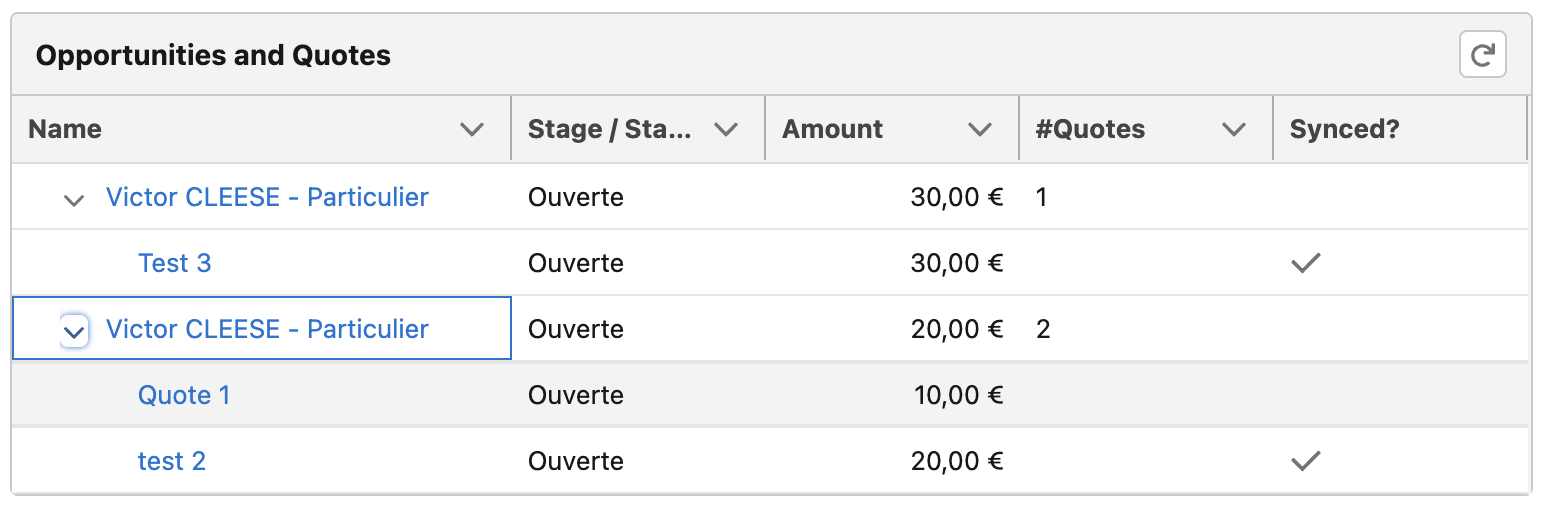
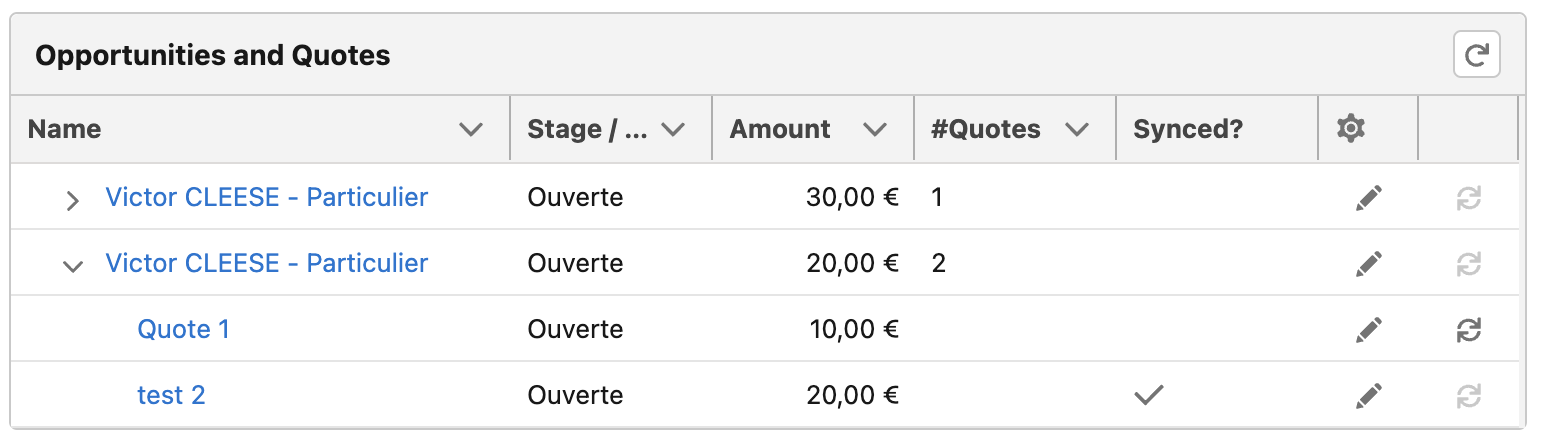
doc update

diff --git a/help/sfpegListCmp.md b/help/sfpegListCmp.md
@@ -457,15 +457,19 @@ action with rework feature activated).<br/>
 ### Simple SOQL Based DataTree Display Configuration
 
 In that example,the **sfpegListCmp** component is configured in _TreeGrid_ mode to 
-display the set of Opportunities and Quotes related to an Account.
+display the set of Opportunities and Quotes related to an Account. From this component,
+the user may directly open a record by clicking on its name, edit it (via the standard
+edit layout in a popup) via the edit button icon or even directly change the quote
+synced with the opportunity via the sync button icon (available depending on the 
+quote synch status).
 
 ![SOQL DataTree](/media/sfpegListDataTreeSOQL.png)
 
 The configuration of this component relies on a simple SOQL query with embedded
 subqueries (`Query Template`property);
 ```
-SELECT Name, Amount__c, StageStatus__c,
-(select Name, Amount__c, StageStatus__c, IsSyncing from Quotes)
+SELECT Name, Amount__c, StageStatus__c, inactiveSync__c,
+(select Name, Amount__c, StageStatus__c, IsSyncing, inactiveSync__c, OpportunityId from Quotes)
 FROM Opportunity
 WHERE AccountId = '{{{ID}}}'
 ```
@@ -477,7 +481,12 @@ The ID of the current Account is fetched by setting the `Query Input` property t
 As Quotes and Opportunities have different names for Amounts and Stage/Status, the 
 strategy is to define formula fields with exactly the same API name on both objets:
 * `StageStatus__c` respectively mapped to the Opportunity `StageName` and Quote `Status` 
-* `Amount__c` respectively mapped to the Opportunity `Amount` and Quote `TotalPrice` 
+* `Amount__c` respectively mapped to the Opportunity `Amount` and Quote `TotalPrice`
+
+In order to deactivate the synch button for all Opportunity records, another `DisableSync__c`
+formula field is defined  
+* always _true_ for Opportunity
+* equal to `IsSynced` for Quote
 
 The `Display Configuration` may then be set as follows:
 ```
@@ -493,18 +502,36 @@ The `Display Configuration` may then be set as follows:
         { "label": "Stage / Status", "fieldName": "StageStatus__c", "sortable": true},
         { "label": "Amount", "fieldName": "Amount__c", "type":"currency", "sortable": true},
         { "label": "#Quotes", "fieldName": "Quotes._length", "sortable": true},
-        { "label": "Synced?", "fieldName": "IsSyncing", "type":"boolean"}
+        { "label": "Synced?", "fieldName": "IsSyncing", "type":"boolean"},
+        { "iconName":"utility:settings","type": "button-icon", "initialWidth": 10,
+            "typeAttributes": {"title": "Edit record","name": "edit","iconName": "utility:edit","variant": "bare" }},
+        { "type": "button-icon", "initialWidth": 10,
+            "typeAttributes": {"title": "Synchronize Quote","name": "synchQuote","iconName": "utility:sync","variant": "bare","disabled": { "fieldName": "DisableSync__c" } }}
     ]
 }
+```
+
+The `Row Actions` should provide the name of a **sfpegAction** metadata record containing the
+actual definition of the 3 actions used, i.e. _open_, _edit_ and _synchQuote_.
+```
+[
+    {"name": "open","action": {"type": "open"}},
+    {"name": "edit","action": {"type": "edit"}},
+    {"name": "synchQuote",
+        "action": {"type": "LDS",
+            "params": {"type": "update",
+                "title": "Synchronizing the Quote with its parent opportunity",
+                "bypassConfirm": true,
+                "params": {"fields": {"Id": "{{{ROW.OpportunityId}}}","SyncedQuoteId": "{{{ROW.Id}}}"}},
+                "next": {"type": "done","params": {"type": "refresh"} } } } }
+]
 ```
 
 _Notes_:
 * ***Beware*** to check the `Flatten Results ?` checkbox to let the relationships properly roll-up
 in the data-tree.
-* You may here use the out-of-the-box _sfpegOpenEdit_ action configuration as `Row Actions` to support
-the navigation action to the Opportunity/Quote record.
-* Other row level actions may be defined, e.g. to directly select/update the quote to synchronise to
-its parent Opportunity.
+* You may here use the out-of-the-box _sfpegOpenEdit_ action configuration as `Row Actions` if you 
+only need the _open_ and _edit_ actions.
 
 ### DataTree Display Configuration & Apex Data Fetch
 
